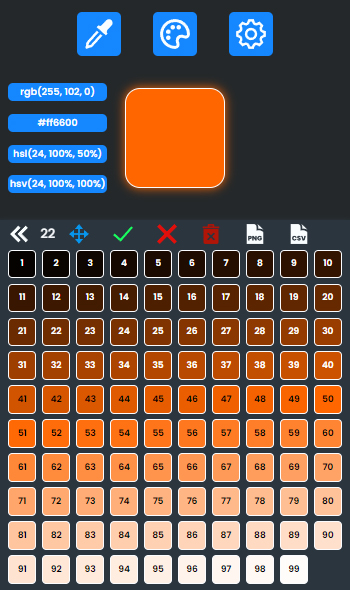
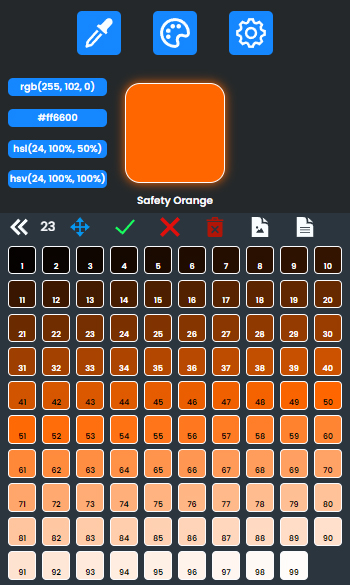
v1.3.3

diff --git a/script.ts b/script.ts
@@ -353,9 +353,10 @@ function setColorName(color: string): void {
   ) {
     colorNamePercentage.style.display = "block";
 
-    colorNamePercentage.textContent = `${(((765 - closestColor[1]) / 765) * 100)
-      .toFixed(1)
-      .replace(/[.,]0+$/, "")}%`;
+    colorNamePercentage.textContent =
+      (((765 - closestColor[1]) / 765) * 100)
+        .toFixed(1)
+        .replace(/[.,]0+$/, "") + "%";
   } else {
     colorNamePercentage.style.display = "none";
   }
@@ -968,9 +969,7 @@ function downloadImage(): void {
       ) {
         let nameText = nameTextTemplate.cloneNode(false) as HTMLElement;
 
-        let closestColor = findClosestColorName(
-          hexToRgb(color, false) as { r: number; g: number; b: number }
-        );
+        let closestColor = findClosestColorName(rgbColor);
 
         nameText.textContent = colorsNames[closestColor[0]].name;
 
@@ -990,11 +989,15 @@ function downloadImage(): void {
 
       // color codes
       let colorsText = colorsTextTemplate.cloneNode(false) as HTMLElement;
-      colorsText.textContent = `${hexToRgb(color, true)}\r\n${
+
+      colorsText.textContent += `${hexToRgb(color, true)}\r\n`;
+      colorsText.textContent += `${
         localStorage.getItem(storage.addHexCharacter) === "true"
           ? color
           : color.slice(1)
-      }\r\n${rgbToHsl(rgbColor)}\r\n${rgbToHsv(rgbColor)}`;
+      }\r\n`;
+      colorsText.textContent += `${rgbToHsl(rgbColor)}\r\n`;
+      colorsText.textContent += `${rgbToHsv(rgbColor)}`;
 
       // index
       let indexText = indexTextTemplate.cloneNode(false) as HTMLElement;

diff --git a/README.md b/README.md
@@ -22,6 +22,7 @@ Tints and Shades tool<br>
 Delete selected color or all colors<br>
 Download palette image<br>
 Download colors data csv<br>
+30.000 color names<br>
 Light and Dark mode<br>
 </p>
 <div align="center">
